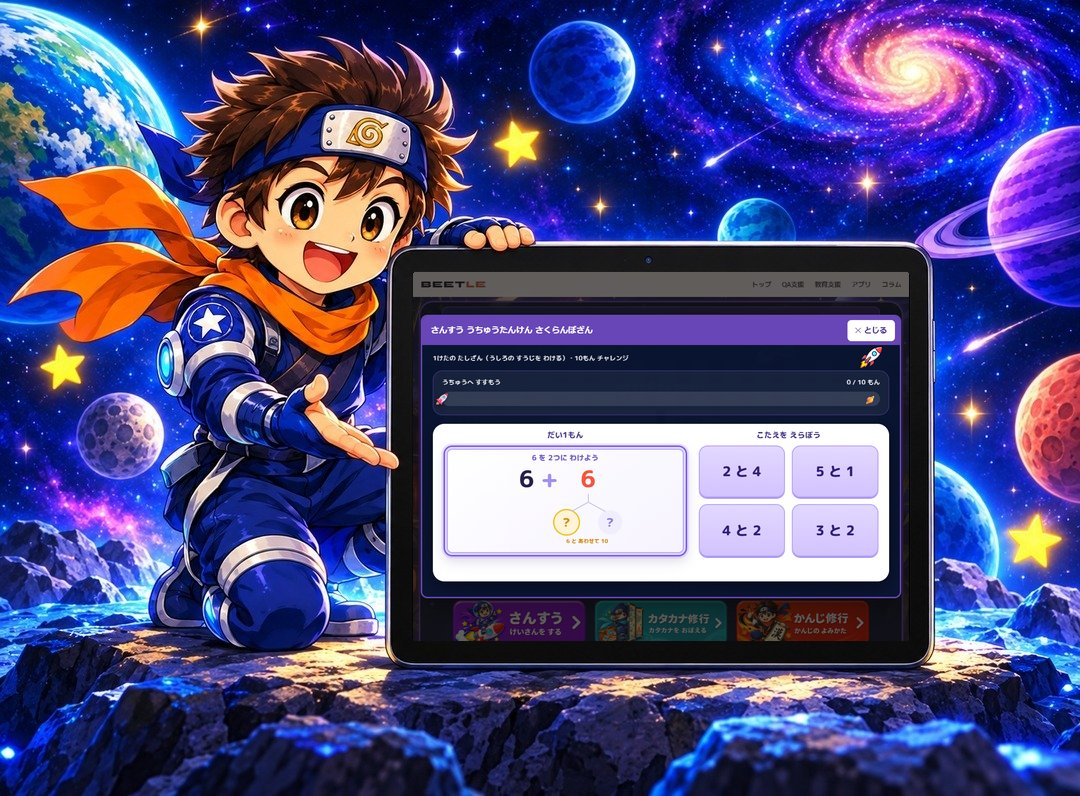
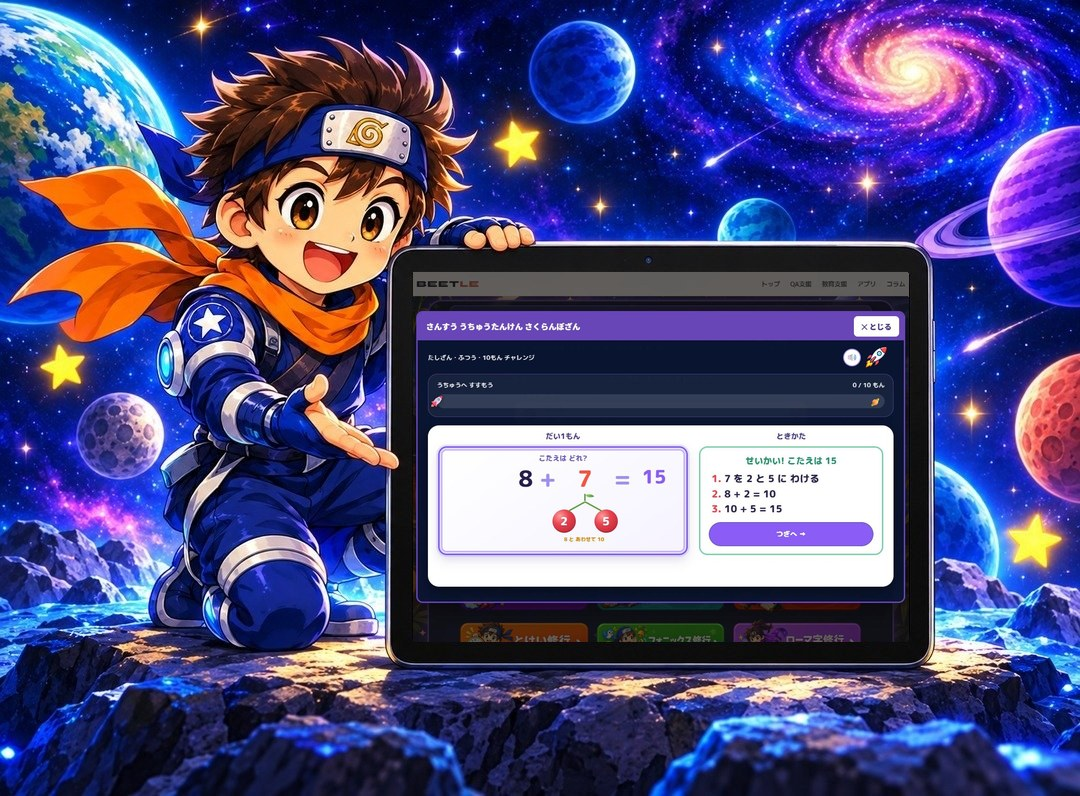
feat(さくらんぼざん LP): 3しゅるい・ひきざん・100きじゅん・とき方の解説に合わせて書き直す
- title・description に たし算・ひき算／くり上がり・くり下がり／小学1年生／無料 を入れる
- FAQ・HowTo（JSON-LD と本文を同内容）を新しい流れに。「ぜんぶ まぜる」「4つの形」を外す
- ヒーロー画像のタブレット画面を、とき方が出ている新しい画面に貼りかえる

Changed region(s): [[0.3667, 0.3317, 0.8556, 0.8141]]

diff --git a/tools/sakuranbo/landing.html b/tools/sakuranbo/landing.html
@@ -17,14 +17,14 @@
 <link rel="icon" href="/assets/icons/favicon.svg" type="image/svg+xml">
 <meta name="viewport" content="width=device-width,initial-scale=1,viewport-fit=cover">
 <meta name="theme-color" content="#0c1332">
-<title>さくらんぼ算 練習｜まえ・うしろを分ける4パターンの無料アプリ｜さんすう うちゅうたんけん さくらんぼざん</title>
-<meta name="description" content="さくらんぼ算（くり上がりのあるたし算）を練習できる無料アプリ。1けた・2けたで うしろの数を分ける／まえの数を分ける、2けた＋2けたの ちょうなんもんまで。分ける2つの数を選ぶだけ。登録不要・インストール不要。">
+<title>さくらんぼ算 練習｜たし算・ひき算（くり上がり・くり下がり）の無料アプリ 小学1年生｜さんすう うちゅうたんけん さくらんぼざん</title>
+<meta name="description" content="さくらんぼ算を、たし算（くり上がり）とひき算（くり下がり）で練習できる無料アプリ。小学1年生の8＋3・13−8から、100をつくる2けたの計算まで。数を分けて、こたえを出して、とき方の解説まで見られます。登録不要・インストール不要。">
 <meta name="robots" content="index,follow,max-image-preview:large">
 <link rel="canonical" href="https://www.beetle-web.jp/tools/sakuranbo/landing.html">
 <meta property="og:type" content="website">
 <meta property="og:site_name" content="BEETLE合同会社">
 <meta property="og:title" content="さくらんぼ算 練習｜さんすう うちゅうたんけん さくらんぼざん">
-<meta property="og:description" content="うしろを分ける・まえを分ける、1けた・2けたの4パターンで、くり上がりのたし算を練習できる無料アプリ。">
+<meta property="og:description" content="さくらんぼ算を、たし算・ひき算の両方で練習できる無料アプリ。分ける→こたえ→とき方の解説まで1問ずつ。">
 <meta property="og:url" content="https://www.beetle-web.jp/tools/sakuranbo/landing.html">
 <meta property="og:image" content="https://www.beetle-web.jp/assets/images/sakuranbo/lp/og-sakuranbo.jpg">
 <meta property="og:image:width" content="1200">
@@ -32,7 +32,7 @@
 <meta property="og:locale" content="ja_JP">
 <meta name="twitter:card" content="summary_large_image">
 <meta name="twitter:title" content="さくらんぼ算 練習｜さんすう うちゅうたんけん さくらんぼざん">
-<meta name="twitter:description" content="うしろを分ける・まえを分ける、1けた・2けたの4パターンで、くり上がりのたし算を練習。">
+<meta name="twitter:description" content="さくらんぼ算を、たし算・ひき算の両方で練習。分ける→こたえ→とき方の解説まで。">
 <meta name="twitter:image" content="https://www.beetle-web.jp/assets/images/sakuranbo/lp/og-sakuranbo.jpg">
 <script type="application/ld+json">
 {
@@ -43,7 +43,7 @@
   "operatingSystem": "Web",
   "offers": { "@type": "Offer", "price": "0", "priceCurrency": "JPY" },
   "url": "https://www.beetle-web.jp/tools/sakuranbo/landing.html",
-  "description": "さくらんぼ算（くり上がりのあるたし算）を、1けた・2けたで うしろの数を分ける／まえの数を分ける形と、2けた＋2けたの ちょうなんもんで練習できる無料Webアプリ。1セット10問、分ける2つの数を4択で選ぶ。"
+  "description": "さくらんぼ算を、たし算（くり上がり）とひき算（くり下がり。まえを分ける・うしろを分ける）で練習できる無料Webアプリ。むずかしさは1けた・2けた・100をつくる計算の3段階。1問ごとに、分ける2つの数とこたえを選び、とき方の解説を見る。1セット10問。"
 }
 </script>
 <script type="application/ld+json">
@@ -54,11 +54,11 @@
   "@context": "https://schema.org",
   "@type": "HowTo",
   "name": "さんすう うちゅうたんけん さくらんぼざんの使い方",
-  "description": "さくらんぼ算を4パターンで練習できる無料Webアプリの使い方",
+  "description": "さくらんぼ算を、たし算・ひき算で練習できる無料Webアプリの使い方",
   "step": [
-    { "@type": "HowToStep", "position": 1, "name": "もんだいを えらぶ", "text": "1けた・2けたの たしざん（うしろ／まえの すうじを わける）、ちょうなんもん、ぜんぶ まぜる から選ぶと、すぐ始まります。" },
-    { "@type": "HowToStep", "position": 2, "name": "わける 2つの かずを タップ", "text": "さくらんぼの図を見て、「2 と 1」のような分け方を4つの中から選びます。" },
-    { "@type": "HowToStep", "position": 3, "name": "10の かたまりで こたえを たしかめる", "text": "正解すると、さくらんぼの中身と「8 + 2 = 10、10 + 1 = 11」のような式の流れが出て、ロケットが前進します。" }
+    { "@type": "HowToStep", "position": 1, "name": "もんだいと むずかしさを えらぶ", "text": "たしざん・ひきざん（まえを わける）・ひきざん（うしろを わける）から選び、ふつう・むずかしい・ちょうなんもん の むずかしさを選びます。" },
+    { "@type": "HowToStep", "position": 2, "name": "わけて、こたえる", "text": "さくらんぼの図を見て「2 と 1」のような分け方を選び、つぎに式のこたえを選びます。選択肢は どれも たすと元の数になる分け方です。両方あって せいかいです。" },
+    { "@type": "HowToStep", "position": 3, "name": "とき方を見て、つぎへ", "text": "「3 を 2 と 1 に わける → 8 + 2 = 10 → 10 + 1 = 11」のような とき方が出ます。読めたら「つぎへ」を押します。" }
   ]
 }
 </script>
@@ -68,10 +68,11 @@
   "@type": "FAQPage",
   "mainEntity": [
     { "@type": "Question", "name": "無料で使えますか？", "acceptedAnswer": { "@type": "Answer", "text": "はい。登録もインストールもいらず、ブラウザを開くだけで無料であそべます。" } },
-    { "@type": "Question", "name": "さくらんぼ算とは何ですか？", "acceptedAnswer": { "@type": "Answer", "text": "くり上がりのあるたし算を「10のまとまり」をつくって考える方法です。8＋5なら、5を2と3に分けて、8と2で10、10と3で13と考えます。" } },
-    { "@type": "Question", "name": "「うしろを わける」と「まえを わける」はどう違いますか？", "acceptedAnswer": { "@type": "Answer", "text": "8＋3のように、うしろの小さい数を分けるのが「うしろを わける」。4＋8のように、まえの小さい数を分けて、うしろの8を10にするのが「まえを わける」です。学校のプリントで両方が出てくるので、どちらも練習できるようにしています。" } },
-    { "@type": "Question", "name": "何年生向けですか？", "acceptedAnswer": { "@type": "Answer", "text": "くり上がりのたし算を習う小学1年生が中心です。「2けたの たしざん」は28＋5や5＋28のように次の10（30）をつくる問題、「ちょうなんもん」は38＋25のような2けた＋2けたで、2年生の復習にも使えます。" } },
-    { "@type": "Question", "name": "スマートフォンや学校のパソコンでも使えますか？", "acceptedAnswer": { "@type": "Answer", "text": "使えます。スマートフォンの縦・横、タブレット、画面の小さいノートパソコンでも、問題と選択肢が1画面に収まるようにしています。" } }
+    { "@type": "Question", "name": "さくらんぼ算とは何ですか？", "acceptedAnswer": { "@type": "Answer", "text": "くり上がりのたし算や くり下がりのひき算を「10のまとまり」をつくって考える方法です。8＋5なら、5を2と3に分けて、8と2で10、10と3で13と考えます。" } },
+    { "@type": "Question", "name": "ひき算の「まえを わける」と「うしろを わける」はどう違いますか？", "acceptedAnswer": { "@type": "Answer", "text": "13−8のように、まえの13を10と3に分けて、10から8をひいて2、2と3で5とするのが「まえを わける」（減加法）。教科書で最初に習う形です。13−4のように、うしろの4を3と1に分けて、13から3をひいて10、10から1をひいて9とするのが「うしろを わける」（減減法）です。宿題で やり方を指定されることがあるので、別々に練習できるようにしています。" } },
+    { "@type": "Question", "name": "何年生向けですか？", "acceptedAnswer": { "@type": "Answer", "text": "くり上がりのたし算・くり下がりのひき算を習う小学1年生が中心です（むずかしさ「ふつう」）。「むずかしい」は28＋5や43−8のような2けたと1けた、「ちょうなんもん」は79＋39や132−94のように100をつくる計算で、2年生の復習にも使えます。" } },
+    { "@type": "Question", "name": "まちがえたときは どうなりますか？", "acceptedAnswer": { "@type": "Answer", "text": "正しい分け方と こたえ、とき方の3ステップが出ます。問題は見えたままで、「つぎへ」を押すまで消えないので、ゆっくり読めます。" } },
+    { "@type": "Question", "name": "スマートフォンや学校のパソコンでも使えますか？", "acceptedAnswer": { "@type": "Answer", "text": "使えます。スマートフォンの縦・横、タブレット、画面の小さいノートパソコンでも、問題と選択肢が1画面に収まるようにしています。効果音は画面のボタンで消せます。" } }
   ]
 }
 </script>
@@ -89,20 +90,20 @@
     <section class="slp-hero">
       <div class="slp-wrap slp-hero-grid">
         <div class="slp-hero-copy-col">
-          <div class="slp-kicker"><span aria-hidden="true">✦</span> 小学1年生の くり上がりのたし算に</div>
-          <h1><span class="slp-title-line">さくらんぼ算を、</span><span class="slp-title-line accent">4つの形で れんしゅう。</span></h1>
-          <p class="slp-hero-copy">うしろの数を分ける形も、まえの数を分ける形も。1けたどうしから、28＋5 のような2けた、38＋25 の ちょうなんもんまで。分ける2つの数を えらぶだけです。</p>
+          <div class="slp-kicker"><span aria-hidden="true">✦</span> 小学1年生の くり上がり・くり下がりに</div>
+          <h1><span class="slp-title-line">さくらんぼ算を、</span><span class="slp-title-line accent">たし算も ひき算も。</span></h1>
+          <p class="slp-hero-copy">8＋3 や 13−8 の1けたから、100をつくる 79＋39 まで。数を分けて、こたえを出して、とき方を見る。1問ずつ「10のまとまり」を自分の手でつくります。</p>
           <div class="slp-cta-row">
             <a class="slp-btn slp-btn-primary" href="/tools/sakuranbo/">あそぶ <span aria-hidden="true">→</span></a>
-            <a class="slp-btn slp-btn-ghost" href="#patterns">4つの形を見る</a>
+            <a class="slp-btn slp-btn-ghost" href="#patterns">もんだいの しゅるいを見る</a>
           </div>
           <p class="slp-parent-note"><span aria-hidden="true">✓</span> 登録・インストール不要。スマホでも学校のパソコンでも すぐ始められます。</p>
         </div>
         <div class="slp-hero-visual">
           <a class="slp-screen" href="/tools/sakuranbo/" aria-label="さんすう うちゅうたんけん さくらんぼざんを始める">
-            <img class="slp-hero-img" src="/assets/images/sakuranbo/lp/app-play.jpg" alt="さくらんぼざんのプレイ画面。6＋6 のうしろの 6 を2つに分ける問題に、4つの答えから選ぶ" width="1080" height="796">
+            <img class="slp-hero-img" src="/assets/images/sakuranbo/lp/app-play.jpg?v=20261002" alt="さくらんぼざんのプレイ画面。8＋7 の 7 を 2 と 5 に分けて こたえ 15 を出し、とき方の3ステップが出ている" width="1080" height="796">
           </a>
-          <div class="slp-float-card slp-float-one"><strong>5つの形</strong><span>まえ・うしろ × 1けた・2けた ＋ ちょうなんもん</span></div>
+          <div class="slp-float-card slp-float-one"><strong>たし算・ひき算</strong><span>3しゅるい × むずかしさ3つ</span></div>
           <div class="slp-float-card slp-float-two"><strong>10問</strong><span>5分から あそべる</span></div>
         </div>
       </div>
@@ -110,58 +111,46 @@
 
     <section class="slp-proof" aria-label="アプリの特徴">
       <div class="slp-wrap slp-proof-grid">
-        <div class="slp-proof-item"><strong>5</strong><span>もんだいの形</span></div>
-        <div class="slp-proof-item"><strong>2</strong><span>わけかた（うしろ・まえ）</span></div>
+        <div class="slp-proof-item"><strong>3</strong><span>もんだいの しゅるい</span></div>
+        <div class="slp-proof-item"><strong>3</strong><span>むずかしさ（100まで）</span></div>
         <div class="slp-proof-item"><strong>2</strong><span>あそびかた（10もん・とことん）</span></div>
         <div class="slp-proof-item"><strong>0円</strong><span>登録も不要</span></div>
       </div>
     </section>
 
-    <!-- 4つの形 -->
+    <!-- 3つの しゅるい -->
     <section class="slp-section slp-modes-section" id="patterns">
       <div class="slp-wrap">
         <div class="slp-head">
-          <div class="slp-eyebrow">学校のプリントと同じ 4つの形</div>
-          <h2>どっちの数を わけるかで、もう 迷わない。</h2>
-          <p>くり上がりのたし算は、大きいほうの数を10にするのが基本。小さいほうの数を分けます。小さい数が うしろにある形も、まえにある形も練習できます。</p>
+          <div class="slp-eyebrow">教科書と同じ 3つの しゅるい</div>
+          <h2>たし算も ひき算も、10を つくって考える。</h2>
+          <p>くり上がりのたし算は、小さいほうの数を分けて大きいほうを10にします。くり下がりのひき算は、教科書で習う2つのやり方（まえを分ける・うしろを分ける）を別々に練習できます。</p>
         </div>
-        <div class="slp-calc-grid">
-          <article class="slp-calc-card is-cherry">
-            <span class="slp-card-index">かたち 1</span>
+        <div class="slp-calc-grid is-six">
+          <article class="slp-calc-card is-add">
+            <span class="slp-card-index">たしざん</span>
             <span class="slp-calc-icon"><img src="/assets/images/sansu/icons/cherry.png" alt="" width="200" height="100" loading="lazy"></span>
-            <h3>うしろを わける</h3>
-            <p><strong>8 ＋ 3</strong>：3 を 2 と 1 に分けて、8 と 2 で 10。</p>
+            <h3>小さいほうを わける</h3>
+            <p><strong>8 ＋ 3</strong>：3 を 2 と 1 に分けて、8 と 2 で 10、10 と 1 で 11。<strong>4 ＋ 8</strong> のように まえが小さいときは、まえの 4 を分けます。</p>
           </article>
-          <article class="slp-calc-card is-cherry">
-            <span class="slp-card-index">かたち 2</span>
+          <article class="slp-calc-card is-sub">
+            <span class="slp-card-index">ひきざん（げんかほう）</span>
             <span class="slp-calc-icon"><img src="/assets/images/sansu/icons/cherry.png" alt="" width="200" height="100" loading="lazy"></span>
             <h3>まえを わける</h3>
-            <p><strong>4 ＋ 8</strong>：4 を 2 と 2 に分けて、2 と 8 で 10。</p>
+            <p><strong>13 − 8</strong>：13 を 10 と 3 に分けて、10 − 8 で 2、2 と 3 で 5。教科書で最初に習う形です。</p>
           </article>
-          <article class="slp-calc-card is-cherry">
-            <span class="slp-card-index">かたち 3</span>
+          <article class="slp-calc-card is-sub">
+            <span class="slp-card-index">ひきざん（げんげんほう）</span>
             <span class="slp-calc-icon"><img src="/assets/images/sansu/icons/cherry.png" alt="" width="200" height="100" loading="lazy"></span>
-            <h3>2けた・うしろ</h3>
-            <p><strong>28 ＋ 5</strong>：5 を 2 と 3 に分けて、28 と 2 で 30。</p>
-          </article>
-          <article class="slp-calc-card is-cherry">
-            <span class="slp-card-index">かたち 4</span>
-            <span class="slp-calc-icon"><img src="/assets/images/sansu/icons/cherry.png" alt="" width="200" height="100" loading="lazy"></span>
-            <h3>2けた・まえ</h3>
-            <p><strong>5 ＋ 28</strong>：5 を 3 と 2 に分けて、2 と 28 で 30。</p>
-          </article>
-          <article class="slp-calc-card is-cherry">
-            <span class="slp-card-index">ちょうなんもん</span>
-            <span class="slp-calc-icon"><img src="/assets/images/sansu/icons/cherry.png" alt="" width="200" height="100" loading="lazy"></span>
-            <h3>2けた ＋ 2けた</h3>
-            <p><strong>38 ＋ 25</strong>：25 を 2 と 23 に分けて、38 と 2 で 40。</p>
+            <h3>うしろを わける</h3>
+            <p><strong>13 − 4</strong>：4 を 3 と 1 に分けて、13 − 3 で 10、10 − 1 で 9。ひく数が小さいときに使いやすい形です。</p>
           </article>
         </div>
         <div class="slp-level-callout">
           <div class="slp-level-mark" aria-hidden="true">🍒</div>
           <div>
-            <h3>「ぜんぶ まぜる」で、どっちを分けるか 自分で見きわめる。</h3>
-            <p>1けた・2けた、まえ・うしろ が まざって出ます。小さいほうを見つけて分ける、という考え方そのものが身につきます。</p>
+            <h3>むずかしさは3つ。さいごは 100を つくる計算。</h3>
+            <p><strong>ふつう</strong>＝1けた（8＋3・13−8）／<strong>むずかしい</strong>＝2けたと1けた（28＋5・43−8）／<strong>ちょうなんもん</strong>＝100を つくる（79＋39 → 39 を 21 と 18 に分けて 100＋18＝118、132−94）。</p>
           </div>
           <a class="slp-text-link" href="/tools/sakuranbo/">もんだいを選びにいく <span aria-hidden="true">→</span></a>
         </div>
@@ -173,13 +162,13 @@
       <div class="slp-wrap">
         <div class="slp-cherry">
           <div class="slp-cherry-copy">
-            <div class="slp-eyebrow">つまずきやすい「まえを わける」</div>
+            <div class="slp-eyebrow">わける → こたえ → とき方</div>
             <h2>「10のまとまり」が、<br>目で見てわかる。</h2>
-            <p>さくらんぼは、分ける数の真下に ぶら下がります。10をつくる玉は、もう一方の数の がわ。どの数と あわせるのかが、図の位置で分かります。</p>
+            <p>1問は2だんです。まず さくらんぼの図を見て、分ける2つの数を選びます。つぎに式のこたえを選びます。分けて終わりにせず、10をつくってから たす・ひく ところまで 自分でやります。</p>
             <ul class="slp-check-list">
-              <li>答えるまでは「＝？」を出さない</li>
-              <li>分ける2つの数（「2 と 2」など）を4択で考える</li>
-              <li>正解すると、さくらんぼの中身と式のこたえまで出る</li>
+              <li>問いかけは「8 と あわせて 10 に なるように 3 を わけよう」</li>
+              <li>選択肢は どれも たすと元の数になる分け方（7 を 4 と 4 のような組み合わせは出さない）</li>
+              <li>答えたら、問題を見たまま とき方の3ステップが出る。「つぎへ」を押すまで消えない</li>
             </ul>
             <a class="slp-btn slp-btn-secondary" href="/tools/sakuranbo/">あそぶ <span aria-hidden="true">→</span></a>
           </div>
@@ -206,19 +195,19 @@
         </div>
         <div class="slp-steps">
           <article class="slp-step">
-            <div class="slp-step-top"><span class="slp-step-no">1</span><div class="slp-step-art is-select is-words" aria-hidden="true"><i>1けた</i><i>2けた</i><i>ちょう</i></div></div>
-            <h3>もんだいを えらぶ</h3>
-            <p>1けた・2けたの たしざん（うしろ／まえの すうじを わける）、ちょうなんもん、ぜんぶ まぜる から選ぶと、すぐ始まります。</p>
+            <div class="slp-step-top"><span class="slp-step-no">1</span><div class="slp-step-art is-select is-words" aria-hidden="true"><i>たす</i><i>ひく</i><i>ひく</i></div></div>
+            <h3>もんだいと むずかしさを えらぶ</h3>
+            <p>たしざん・ひきざん（まえを わける）・ひきざん（うしろを わける）から選び、ふつう・むずかしい・ちょうなんもん の むずかしさを選びます。</p>
           </article>
           <article class="slp-step">
-            <div class="slp-step-top"><span class="slp-step-no">2</span><div class="slp-step-art is-select is-words" aria-hidden="true"><i>2 と 1</i><i>1 と 2</i></div></div>
-            <h3>わける 2つの かずを タップ</h3>
-            <p>さくらんぼの図を見て、「2 と 1」のような分け方を4つの中から選びます。</p>
+            <div class="slp-step-top"><span class="slp-step-no">2</span><div class="slp-step-art is-select is-words" aria-hidden="true"><i>2 と 1</i><i>11</i></div></div>
+            <h3>わけて、こたえる</h3>
+            <p>さくらんぼの図を見て「2 と 1」のような分け方を選び、つぎに式のこたえを選びます。選択肢は どれも たすと元の数になる分け方です。両方あって せいかいです。</p>
           </article>
           <article class="slp-step">
             <div class="slp-step-top"><span class="slp-step-no">3</span><div class="slp-step-art is-rocket" aria-hidden="true"><img src="/assets/images/sansu/icons/cherry.png" alt="" width="200" height="100" loading="lazy"><b>★</b></div></div>
-            <h3>10の かたまりで こたえを たしかめる</h3>
-            <p>正解すると、さくらんぼの中身と「8 + 2 = 10、10 + 1 = 11」のような式の流れが出て、ロケットが前進します。</p>
+            <h3>とき方を見て、つぎへ</h3>
+            <p>「3 を 2 と 1 に わける → 8 + 2 = 10 → 10 + 1 = 11」のような とき方が出ます。読めたら「つぎへ」を押します。</p>
           </article>
         </div>
         <div class="slp-center-cta"><a class="slp-btn slp-btn-secondary" href="/tools/sakuranbo/">あそぶ <span aria-hidden="true">→</span></a></div>
@@ -239,19 +228,23 @@
           </details>
           <details>
             <summary>さくらんぼ算とは何ですか？</summary>
-            <div class="slp-faq-a">くり上がりのあるたし算を「10のまとまり」をつくって考える方法です。8＋5なら、5を2と3に分けて、8と2で10、10と3で13と考えます。</div>
+            <div class="slp-faq-a">くり上がりのたし算や くり下がりのひき算を「10のまとまり」をつくって考える方法です。8＋5なら、5を2と3に分けて、8と2で10、10と3で13と考えます。</div>
           </details>
           <details>
-            <summary>「うしろを わける」と「まえを わける」はどう違いますか？</summary>
-            <div class="slp-faq-a">8＋3のように、うしろの小さい数を分けるのが「うしろを わける」。4＋8のように、まえの小さい数を分けて、うしろの8を10にするのが「まえを わける」です。学校のプリントで両方が出てくるので、どちらも練習できるようにしています。</div>
+            <summary>ひき算の「まえを わける」と「うしろを わける」はどう違いますか？</summary>
+            <div class="slp-faq-a">13−8のように、まえの13を10と3に分けて、10から8をひいて2、2と3で5とするのが「まえを わける」（減加法）。教科書で最初に習う形です。13−4のように、うしろの4を3と1に分けて、13から3をひいて10、10から1をひいて9とするのが「うしろを わける」（減減法）です。宿題で やり方を指定されることがあるので、別々に練習できるようにしています。</div>
           </details>
           <details>
             <summary>何年生向けですか？</summary>
-            <div class="slp-faq-a">くり上がりのたし算を習う小学1年生が中心です。「2けたの たしざん」は28＋5や5＋28のように次の10（30）をつくる問題、「ちょうなんもん」は38＋25のような2けた＋2けたで、2年生の復習にも使えます。</div>
+            <div class="slp-faq-a">くり上がりのたし算・くり下がりのひき算を習う小学1年生が中心です（むずかしさ「ふつう」）。「むずかしい」は28＋5や43−8のような2けたと1けた、「ちょうなんもん」は79＋39や132−94のように100をつくる計算で、2年生の復習にも使えます。</div>
+          </details>
+          <details>
+            <summary>まちがえたときは どうなりますか？</summary>
+            <div class="slp-faq-a">正しい分け方と こたえ、とき方の3ステップが出ます。問題は見えたままで、「つぎへ」を押すまで消えないので、ゆっくり読めます。</div>
           </details>
           <details>
             <summary>スマートフォンや学校のパソコンでも使えますか？</summary>
-            <div class="slp-faq-a">使えます。スマートフォンの縦・横、タブレット、画面の小さいノートパソコンでも、問題と選択肢が1画面に収まるようにしています。</div>
+            <div class="slp-faq-a">使えます。スマートフォンの縦・横、タブレット、画面の小さいノートパソコンでも、問題と選択肢が1画面に収まるようにしています。効果音は画面のボタンで消せます。</div>
           </details>
         </div>
         <p class="slp-center-cta"><a class="slp-text-link" href="/blog/posts/sakuranbo-zan.html">さくらんぼ算の教え方（コラム）を読む <span aria-hidden="true">→</span></a></p>
@@ -262,7 +255,7 @@
     <section class="slp-final">
       <div class="slp-wrap">
         <h2>さくらんぼで、10を つくろう。</h2>
-        <p>まえ も うしろ も、1けた も 2けた も。今すぐ、無料であそべます。</p>
+        <p>たし算 も ひき算 も、1けた から 100 まで。今すぐ、無料であそべます。</p>
         <a class="slp-btn slp-btn-primary" href="/tools/sakuranbo/">あそぶ <span aria-hidden="true">→</span></a>
       </div>
     </section>

diff --git a/specs/tools-sakuranbo-landing.md b/specs/tools-sakuranbo-landing.md
@@ -12,5 +12,10 @@ required_selectors: ["#site-header", ".footer-skyline-bar", ".footer-link-bar"]
 
 - **目的**: SEO集客面。アプリ本体（/tools/sakuranbo/）への入口。検索語「さくらんぼ算 練習」を title の先頭に置く（CLAUDE.md ツール名の付け方）
 - **レイアウト型**: さんすう うちゅうたんけん のランディング（`css/sansu-app-lp.css`・`slp-` クラス）を共用。絵も さんすう のものを使う（ユーザー決定）
-- **内容**: 4つの形（うしろ・まえ × 1けた・2けた）のカード、まえを わける（4 + 8）の3ステップ図、使い方3ステップ、FAQ（JSON-LD FAQPage と同内容）
+- **内容**（2026-10-02 アプリの作り直しに追従）: 3つの しゅるい（たしざん／ひきざん まえ＝げんかほう／ひきざん うしろ＝げんげんほう）のカード、
+  むずかしさ3つ（ふつう・むずかしい・ちょうなんもん＝100を つくる）の説明、まえを わける（4 + 8）の3ステップ図、
+  1もん2だん（わける→こたえ→とき方）の説明、使い方3ステップ、FAQ（JSON-LD FAQPage と同内容）
+- **検索語**: title・description に「たし算・ひき算」「くり上がり・くり下がり」「小学1年生」「無料」を入れる（Googleの検索語に引っかかるよう文章を厚くする方針）
+- **ヒーロー画像** `assets/images/sakuranbo/lp/app-play.jpg`: 忍者の絵のタブレット画面（左上 413,272・495×370）に、
+  1080×796 で撮った とき方が出ている画面を貼る。画面を変えたら撮り直して同じ位置に貼る
 - **手動確認観点**: 訴求文言がアプリの現行機能（わけかた3つ・かず2つ）と一致しているか／FAQ と JSON-LD の一致
